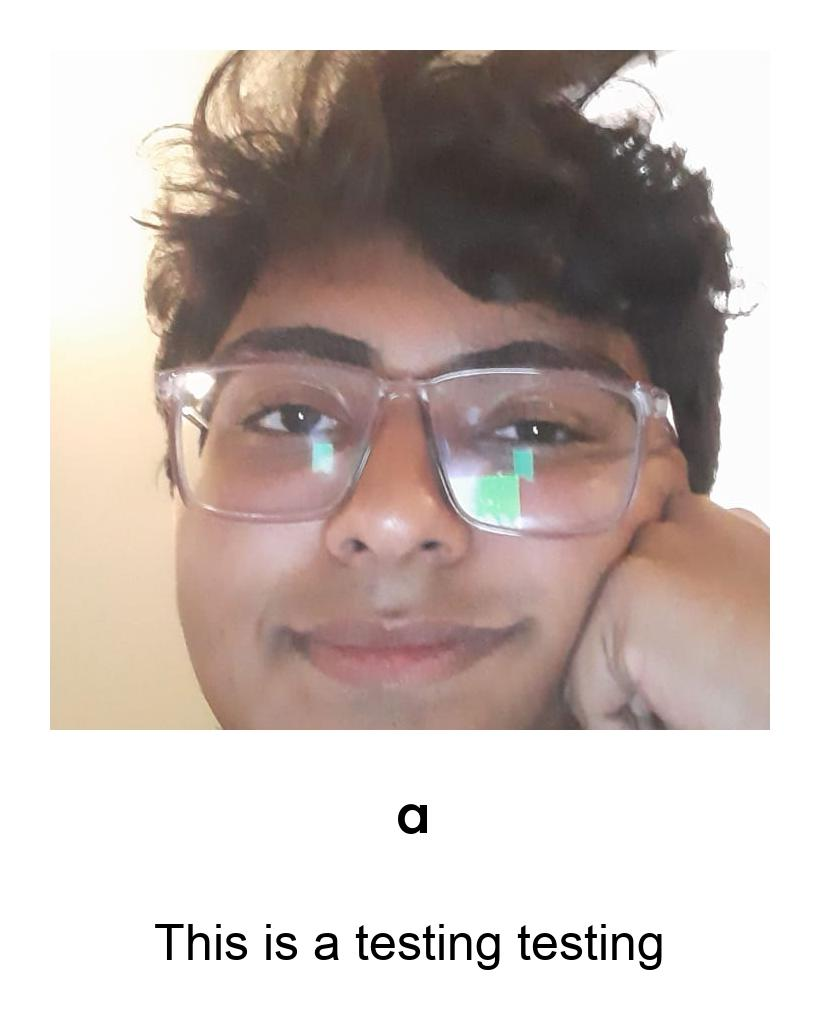
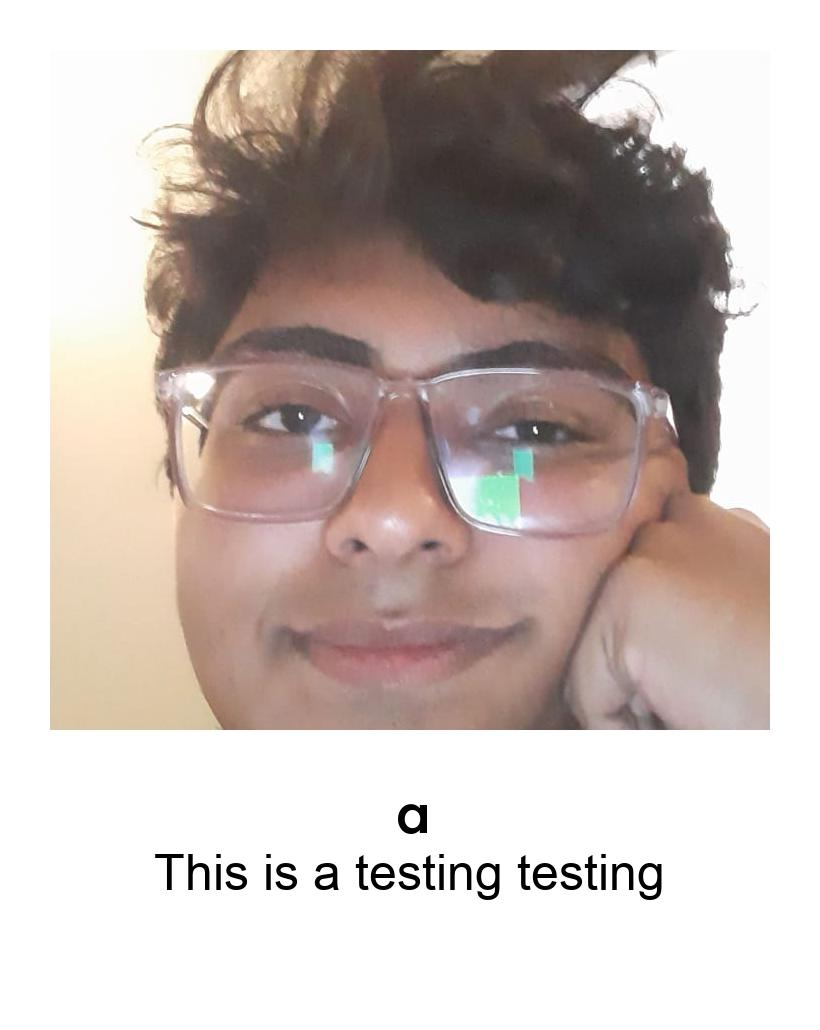
better 1 line positioning

Changed region(s): [[0.1829, 0.8078, 0.8232, 0.8699], [0.1829, 0.901, 0.8232, 0.9631]]

diff --git a/imgprocessingfunc.py b/imgprocessingfunc.py
@@ -111,8 +111,12 @@ def drawText(text, img):
 
     for i in range(0, lineCount):
         w, h = draw.textsize(lines[i], quotefont)
-        x = img.width/2 - w/2
-        y = lastY + h
+        if lineCount == 1:
+            x = img.width/2 - w/2
+            y = lastY + h - 70
+        else:  
+            x = img.width/2 - w/2
+            y = lastY + h
         # x = 1000
         # y = 1000
         lastY = y

diff --git a/main.py b/main.py
@@ -18,5 +18,5 @@ if os.path.exists(p) and os.path.isdir(p):
             drawTitle(filename, img)
             img.save("out/{}".format(name))
 
-
+# TODO WHAT IF WE PUT THE TITLE ON THE TOP??
 # TODO Fix the title's placement, it's clipping through the quotes. Also fix the quote's placement

diff --git a/README.md b/README.md
@@ -1,1 +1,3 @@
 TODO make a proper readme
+
+Waiting for actual images to come in at this point
